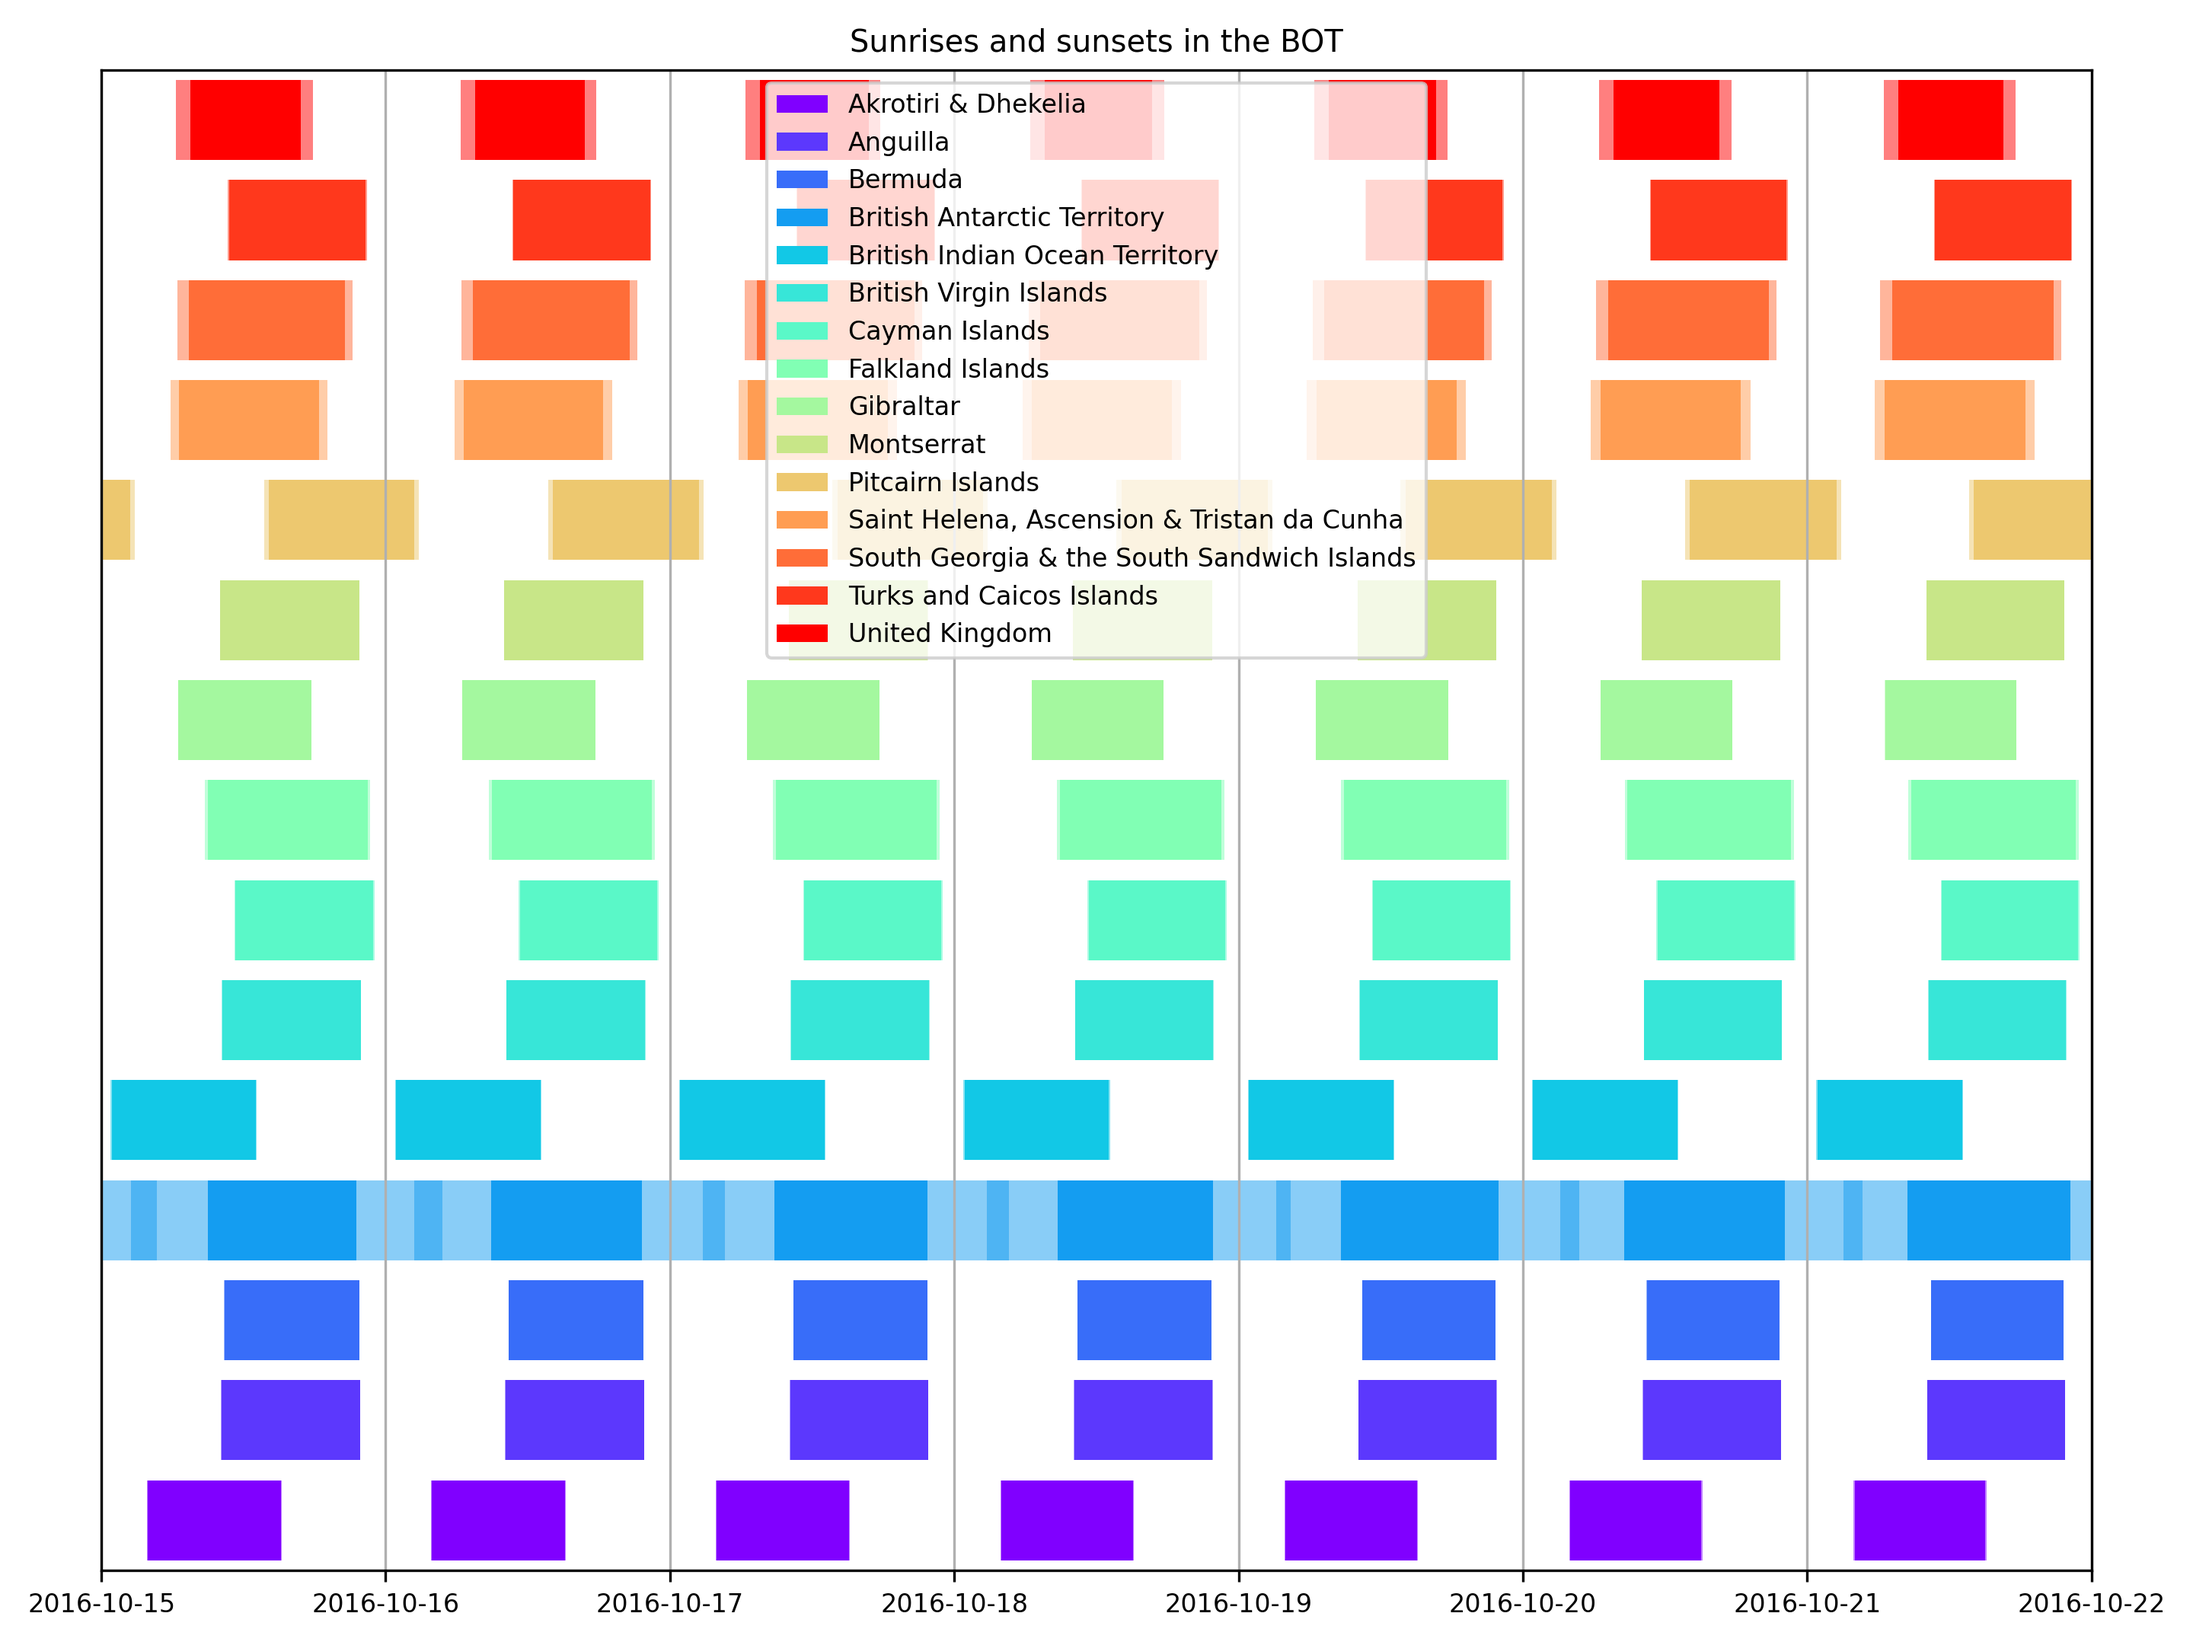
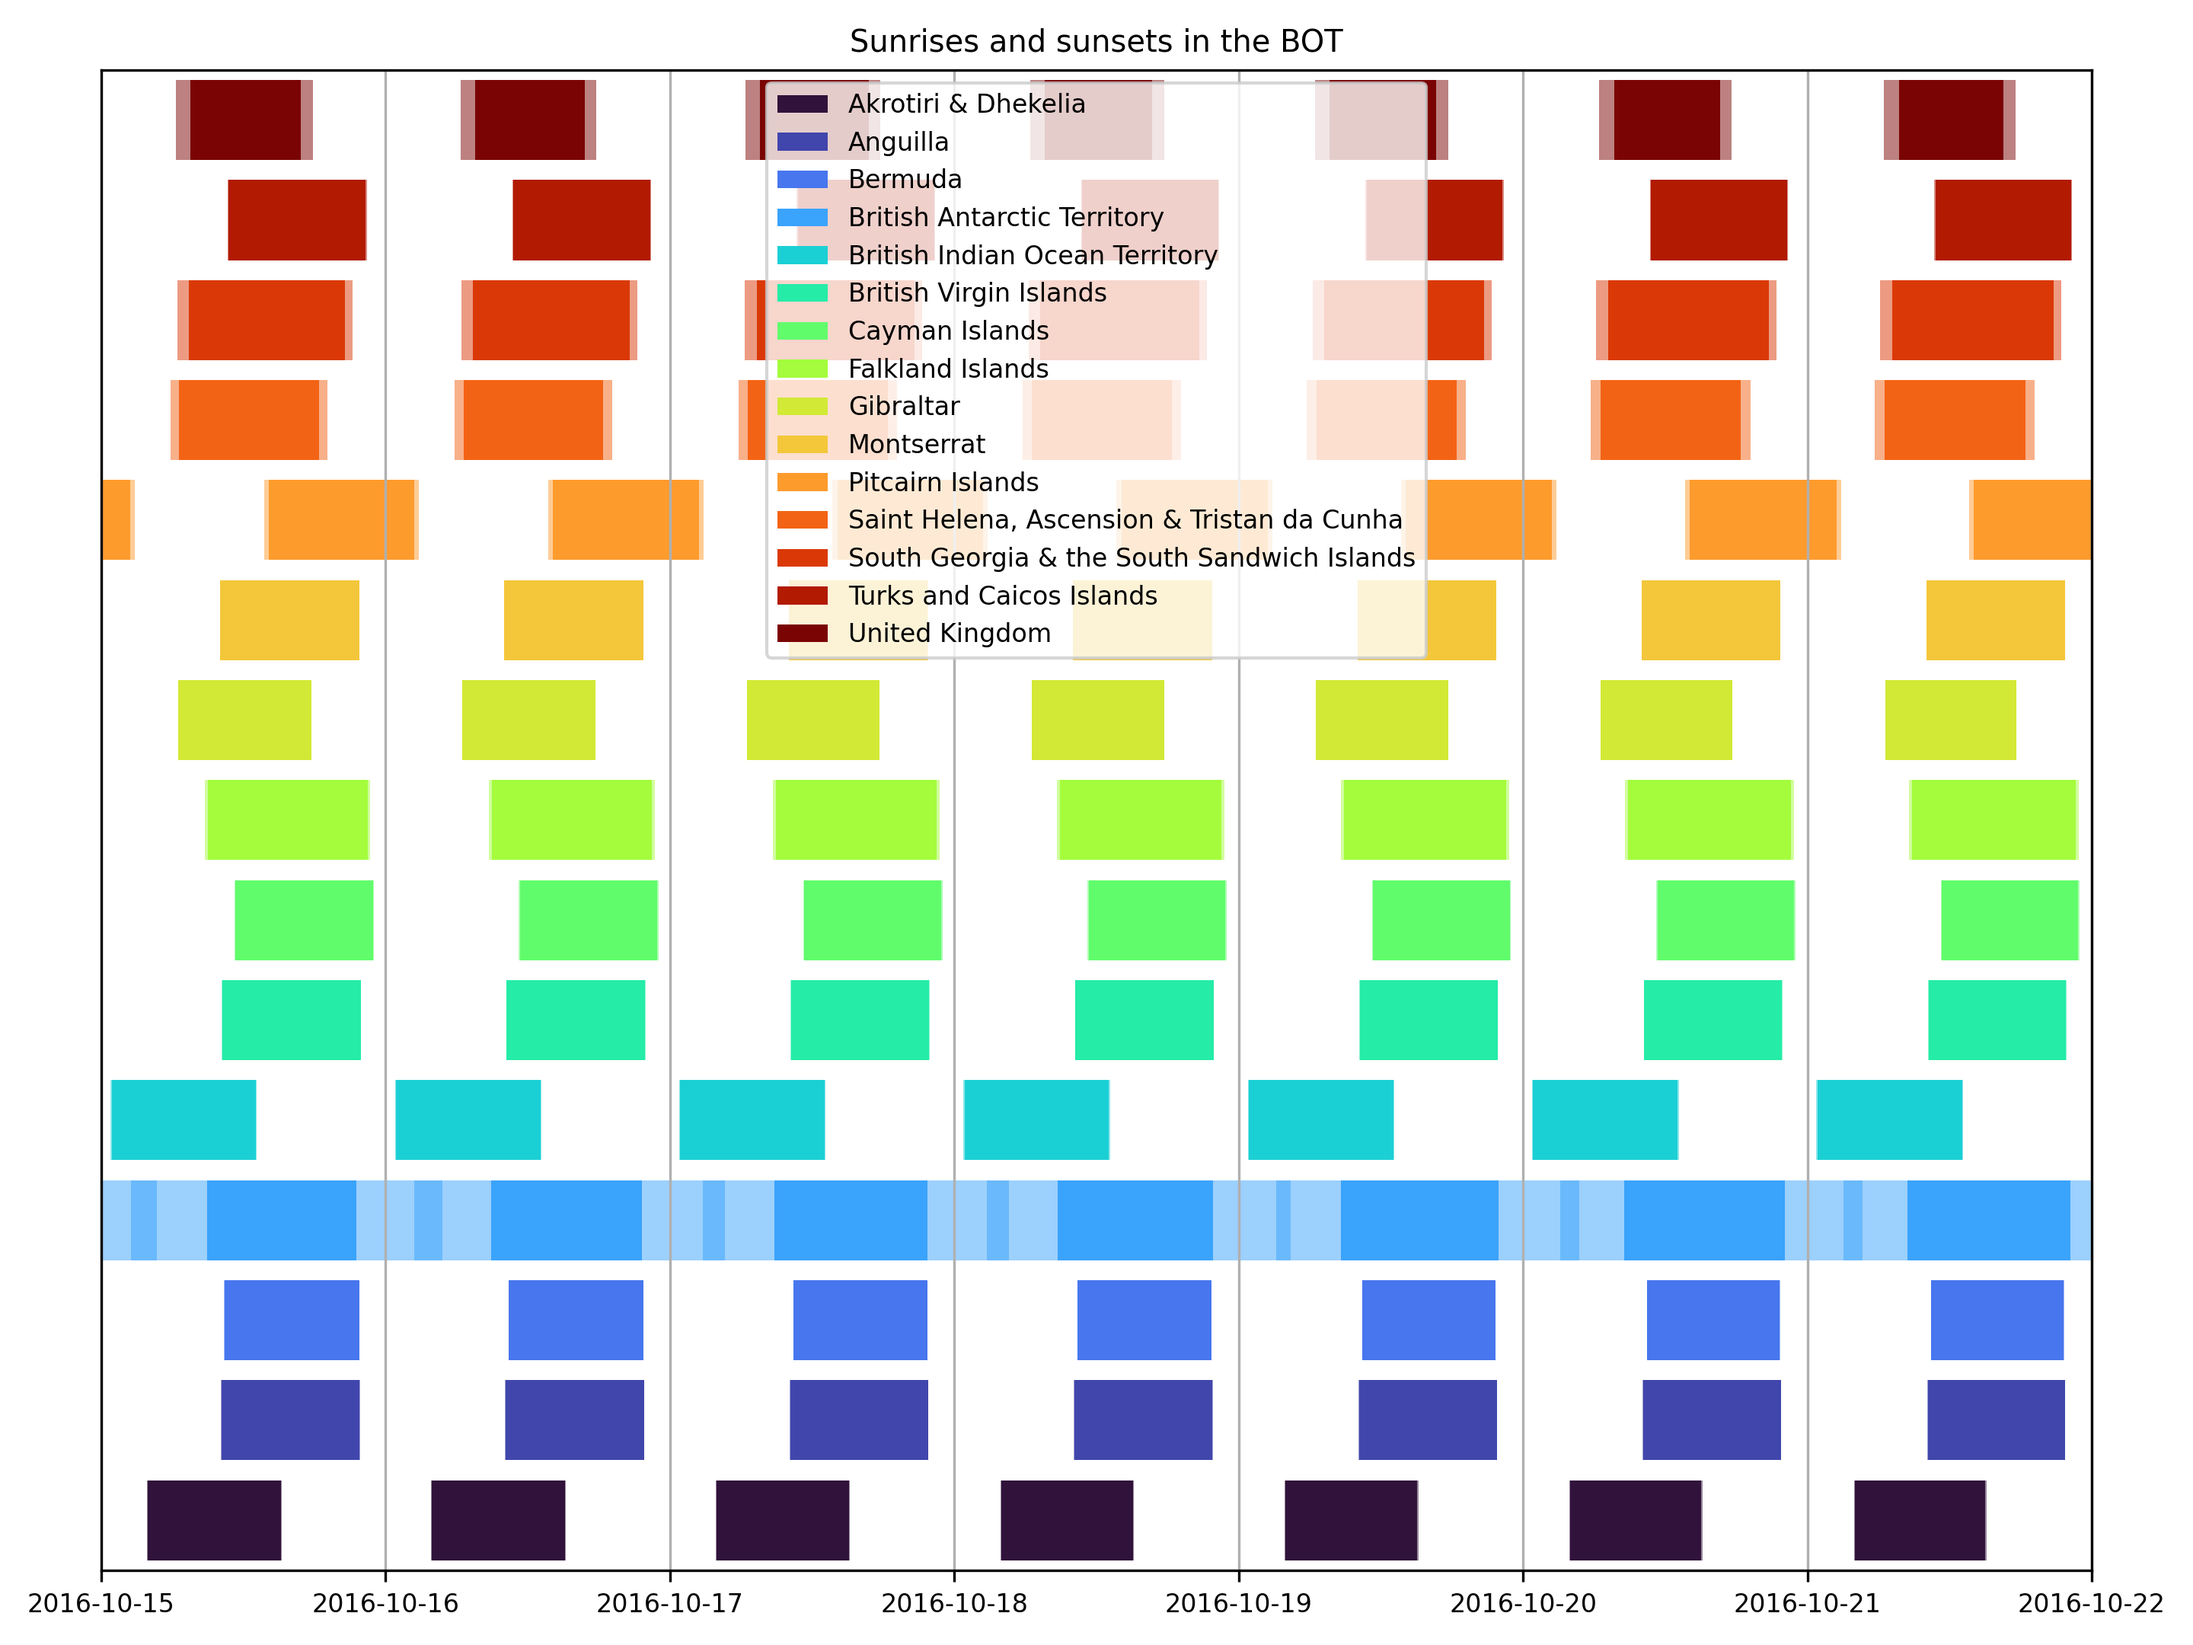
use a better colour map

diff --git a/bots/create_timeline.py b/bots/create_timeline.py
@@ -202,7 +202,7 @@ def create_timeline(
                  left = x1,
                 align = "center",
                 alpha = 0.5,
-                color = matplotlib.colormaps["rainbow"](float(j) / float(len(territories) - 1)),
+                color = matplotlib.colormaps["turbo"](float(j) / float(len(territories) - 1)),
             linewidth = 0.1,
         )
         ax.barh(
@@ -211,7 +211,7 @@ def create_timeline(
                height = 0.8,
                  left = x2,
                 align = "center",
-                color = matplotlib.colormaps["rainbow"](float(j) / float(len(territories) - 1)),
+                color = matplotlib.colormaps["turbo"](float(j) / float(len(territories) - 1)),
                 label = territory,
             linewidth = 0.1,
         )
